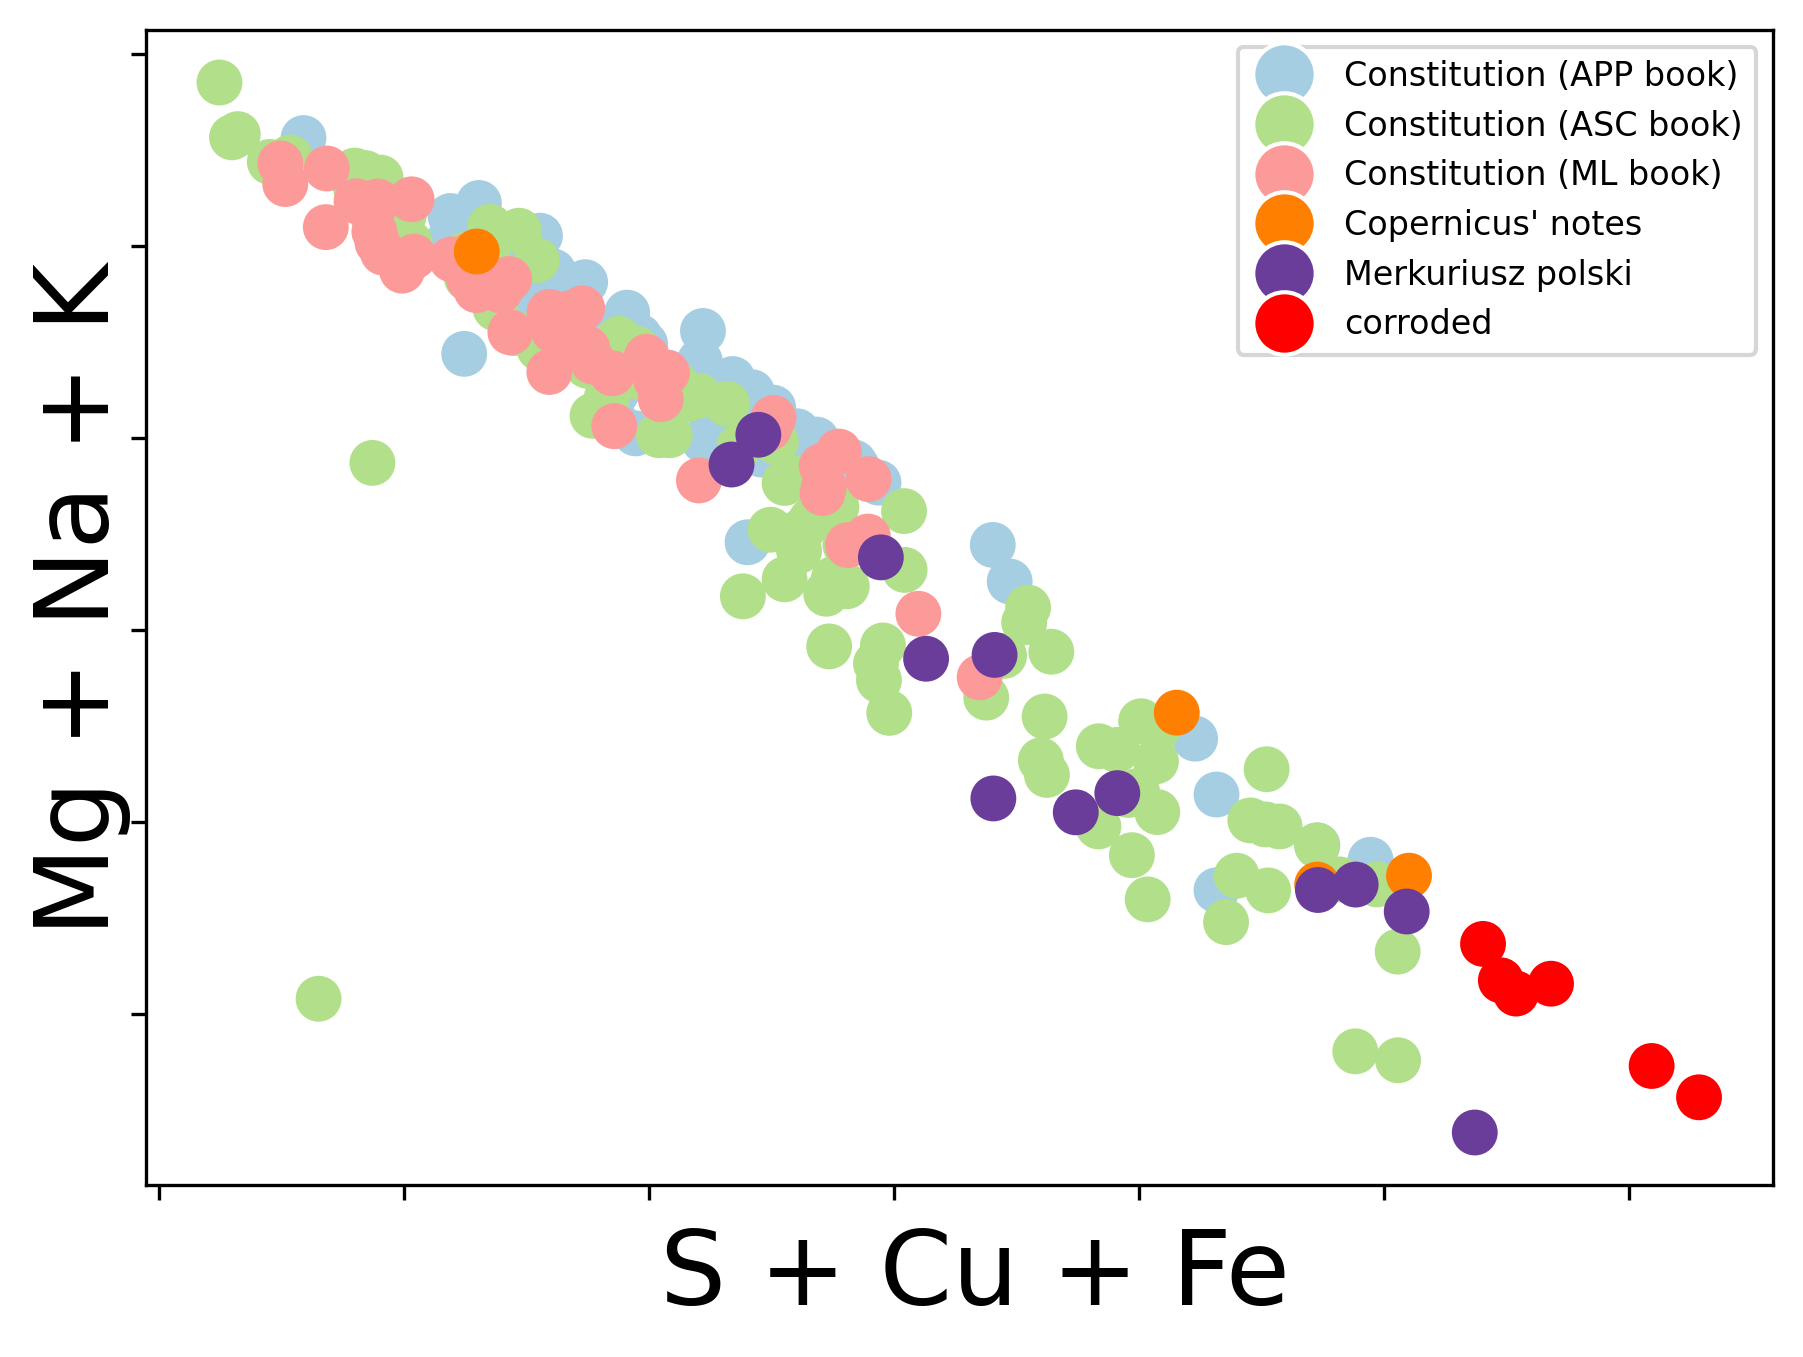
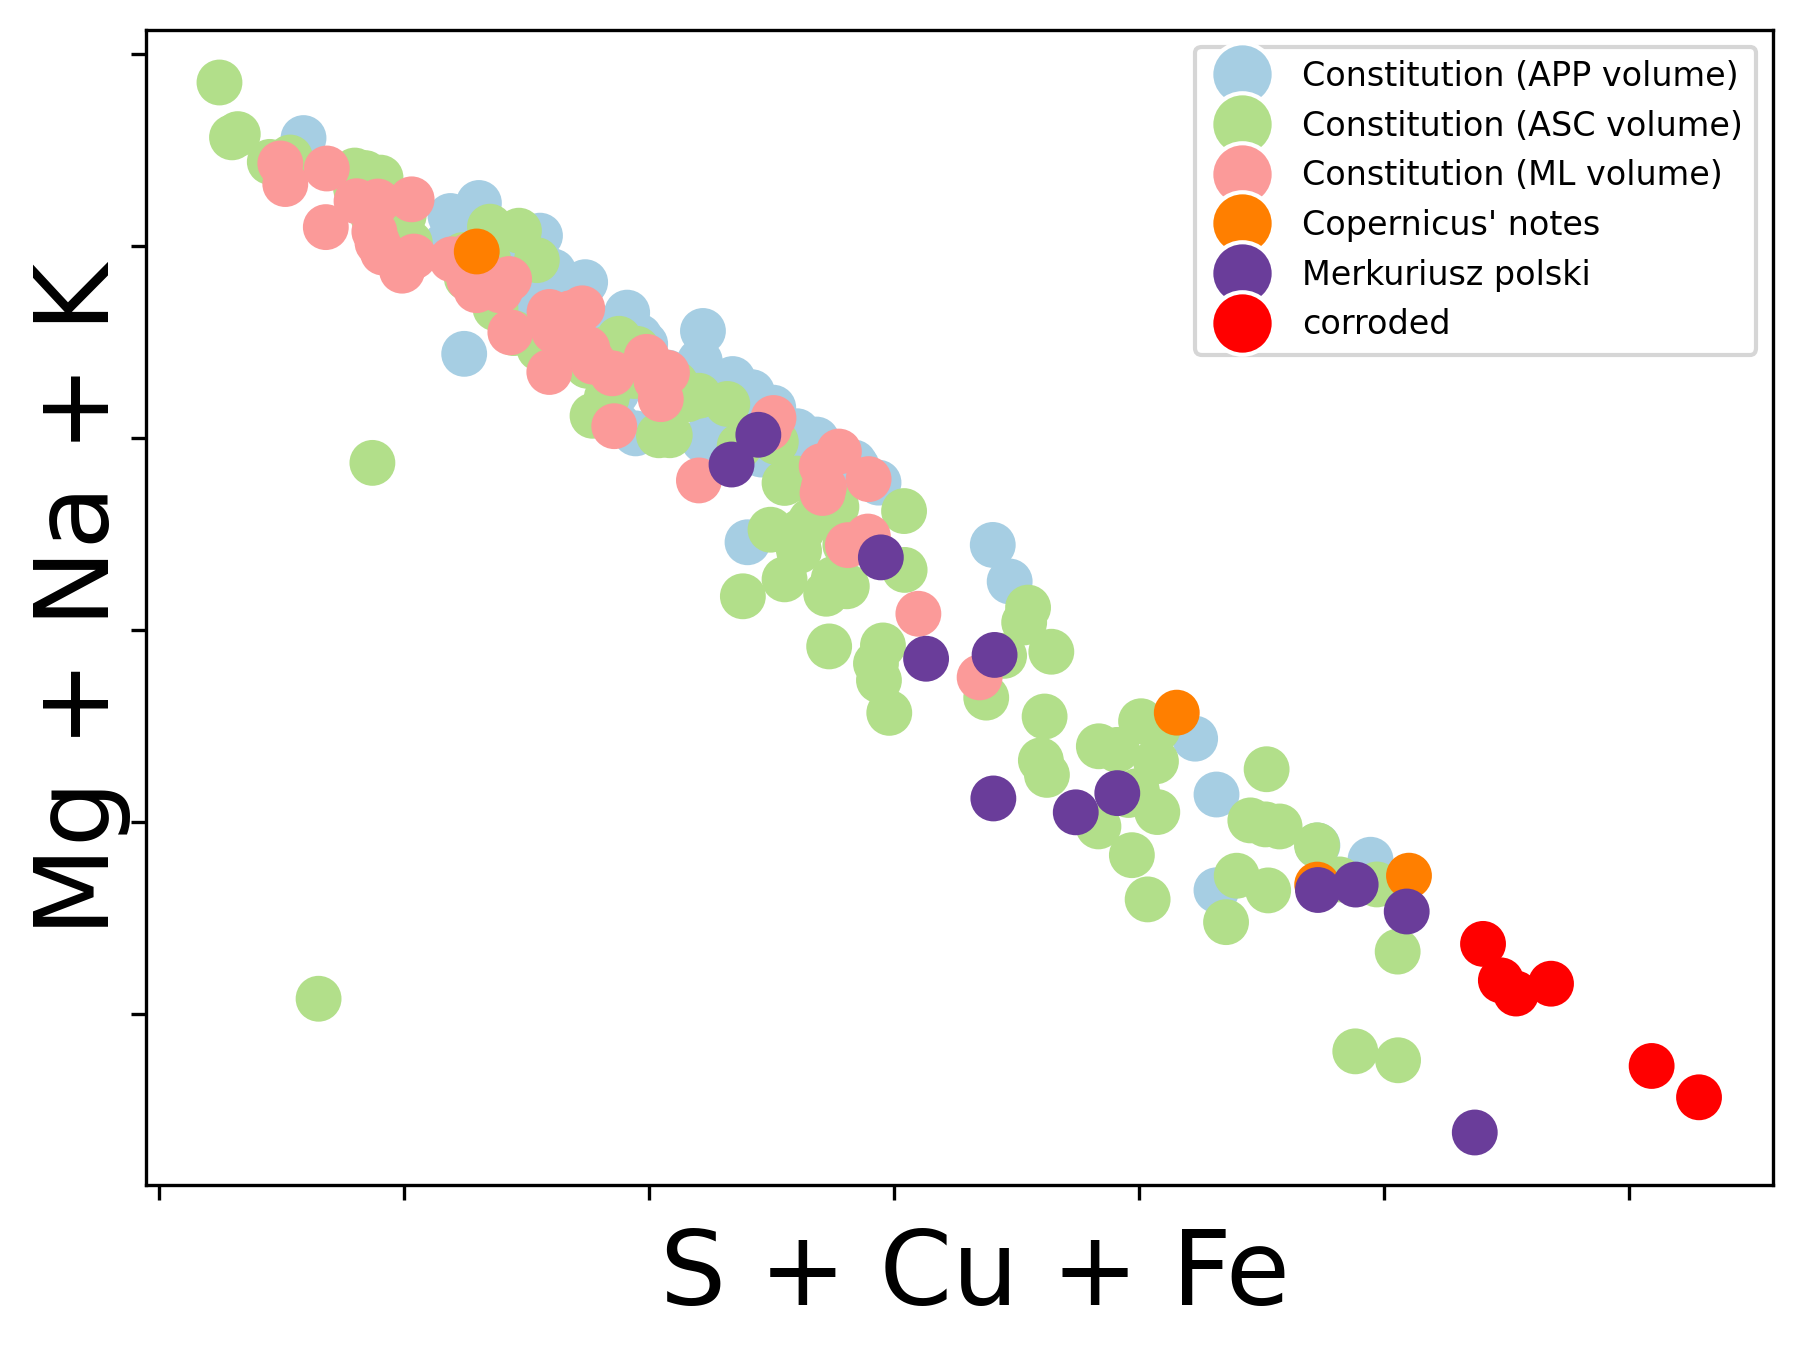
Added colorbar in one of the heatmaps, changed 'book' to 'volume'

Changed region(s): [[0.6522, 0.031, 0.9628, 0.2786]]

diff --git a/analysis/6_prediction_visualisations.py b/analysis/6_prediction_visualisations.py
@@ -184,7 +184,15 @@ y_true = truncate_names(y_true)
 y_true = translate_names(y_true, OFFICIAL_NAMES_DICT)
 X = np.array(df.values)
 
-visualise_clustering_on_heatmap(X, y_true.values, ELEMENTS_TO_KEEP_NO_FE if NORMALISATION_TO_FE else ELEMENTS_TO_KEEP, colormap=cm.Paired, dendrogram_ratio=0.2, col_cluster=False, show_legend=False, figures_path=FIGURES_PATH)
+visualise_clustering_on_heatmap(X, 
+                                y_true.values, 
+                                ELEMENTS_TO_KEEP_NO_FE if NORMALISATION_TO_FE else ELEMENTS_TO_KEEP, 
+                                colormap=cm.Paired, 
+                                cbar_pos=(0.02, 0.15, 0.05, 0.18), 
+                                dendrogram_ratio=0.2, 
+                                col_cluster=False, 
+                                show_legend=False, 
+                                figures_path=FIGURES_PATH)
 
 # PCA plot
 

diff --git a/src/data_utils.py b/src/data_utils.py
@@ -769,7 +769,7 @@ def join_datasets_into_one(
 
     return df, y_true
 
-def visualise_clustering_on_heatmap(X, y, elements_to_keep, colormap=cm.tab20, figsize=(6,5), dendrogram_ratio=0.1, show_classes_names=False, show_legend=False, row_cluster=True, col_cluster=True, figures_path=None):
+def visualise_clustering_on_heatmap(X, y, elements_to_keep, colormap=cm.tab20, figsize=(6,5), cbar_pos=None, dendrogram_ratio=0.1, show_classes_names=False, show_legend=False, row_cluster=True, col_cluster=True, figures_path=None):
 
     y_true = pd.Series(y)
     y_true = y_true.rename('          ')
@@ -798,7 +798,7 @@ def visualise_clustering_on_heatmap(X, y, elements_to_keep, colormap=cm.tab20, f
         colors_ratio=0.05,
         figsize=figsize,
         norm=LogNorm(),
-        cbar_pos=None
+        cbar_pos=cbar_pos
     )
 
     #cg.ax_row_dendrogram.set_visible(False)
